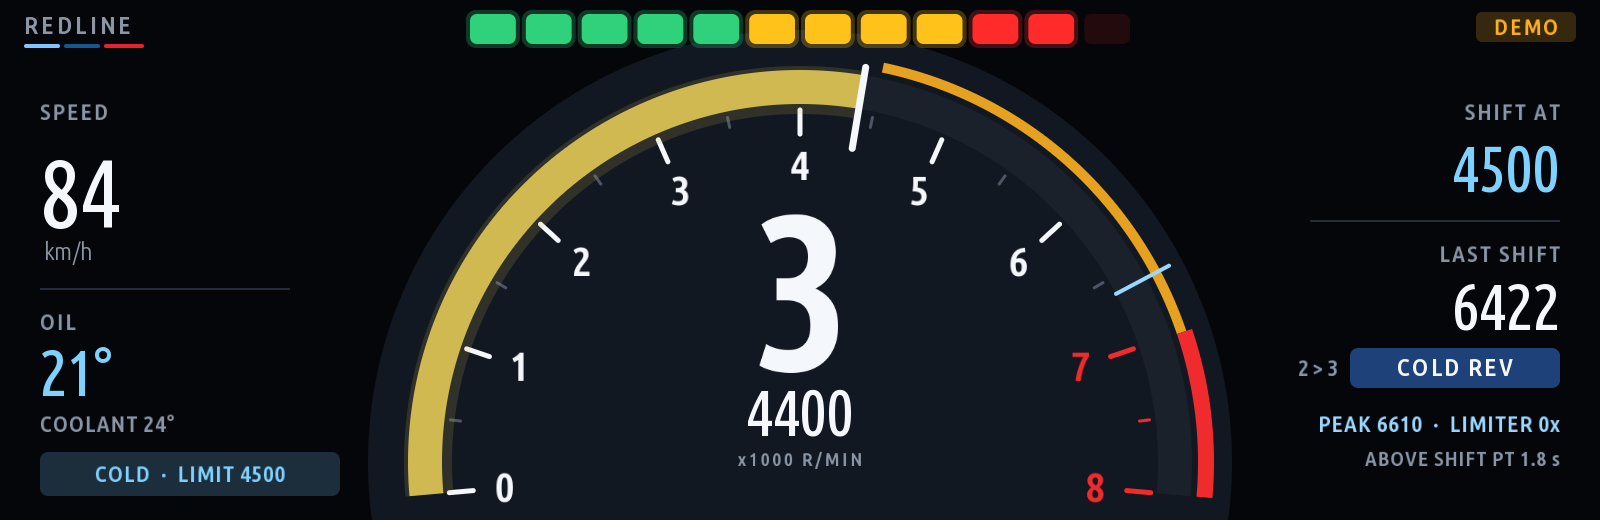
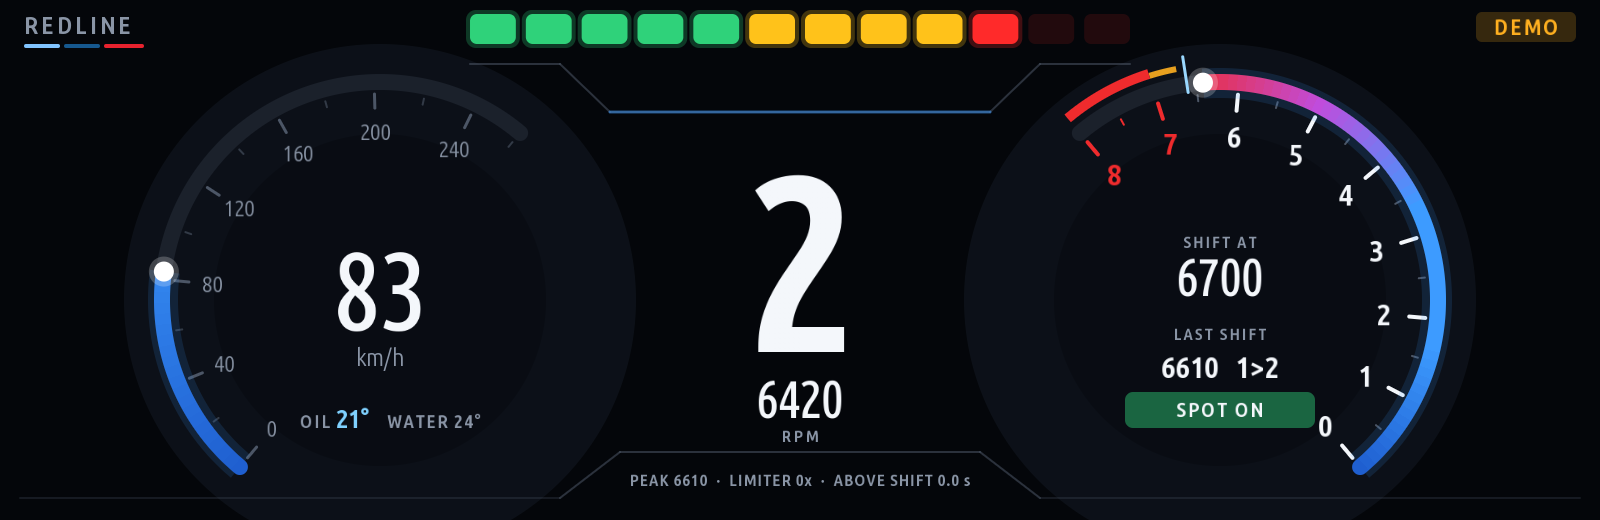
Redline 1.1: G20 Live Cockpit style cluster
- Two mirrored open gauges: speed (left, fills clockwise from the lower
  left) and revs (right, anticlockwise from the lower right) with glow
  and a bright tip; rev bar runs the theme's hot ramp to red at the
  shift point, solid red above it; shift zone + redline on the rim
- Huge gear in the centre with rpm under it, angular frame lines,
  shift-at / last shift + verdict inside the rev gauge, oil / water and
  the cold limit inside the speed gauge; shift lights, flash, scoring and
  the shift log page unchanged
- canvas.arc ramp now works anticlockwise (rampTo < rampFrom)
- README: Redline description + screenshot

Claude-Session: https://claude.ai/code/session_01G89YVjbLtqWwckvonFV4nZ

diff --git a/apps/redline/main.js b/apps/redline/main.js
@@ -1,6 +1,8 @@
 'use strict';
 /**
- * Redline - full-screen rev tach drawn like an M cluster.
+ * Redline - full-screen rev tach drawn like the G20 Live Cockpit in Sport mode:
+ * two mirrored open gauges (speed left, revs right) filling from the outer bottom
+ * corners towards the centre, a huge gear between them, angular frame lines.
  *
  *   - shift-light bar that fills over the last 2000 rpm and strobes at the shift point
  *   - huge gear number (from the gearbox, or learned from rpm/speed ratios)
@@ -16,8 +18,11 @@ const G = require('./kit/gauges');
 const Car = require('./kit/car');
 
 const W = 1600, H = 520;
-const CX = 800, CY = 462, R = 392, THICK = 34;      // tach geometry
-const A0 = -95, A1 = 95;                            // sweep, degrees from 12 o'clock
+// two mirrored pods (G20 style): speed left, revs right; angles in degrees from 12 o'clock
+const PY = 300, PR = 226, THICK = 16;
+const SPD = { cx: 380, a0: -140, a1: 40 };          // fills clockwise from the lower left
+const TAC = { cx: 1220, a0: 140, a1: -40 };         // fills anticlockwise from the lower right
+const SPEED_MAX = { kmh: 260, mph: 160 };
 const MPH = 1.609344;
 const GREEN = '#2fd27a', YELLOW = '#ffc21a', BLUE = '#2a7dff';
 const N_LEDS = 12, LED_RANGE = 2000;
@@ -85,32 +90,59 @@ mgu.run({
             if (G.isNum(g)) lastGear = g;
         }, () => { recent.length = 0; lastGear = null; lastT = 0; });
 
-        /* ---------- static tach background (cached) ---------- */
-        const ang = (rpm) => A0 + G.clamp(rpm / maxRpm(), 0, 1) * (A1 - A0);
-        const P = (a, r) => [CX + Math.sin(a * Math.PI / 180) * r, CY - Math.cos(a * Math.PI / 180) * r];
+        /* ---------- static cluster background (cached) ---------- */
+        const P = (cx, a, r) => [cx + Math.sin(a * Math.PI / 180) * r, PY - Math.cos(a * Math.PI / 180) * r];
+        const tacA = (rpm) => TAC.a0 + G.clamp(rpm / maxRpm(), 0, 1) * (TAC.a1 - TAC.a0);
+        const spdMax = () => SPEED_MAX[mph() ? 'mph' : 'kmh'];
+        const spdA = (v) => SPD.a0 + G.clamp(v / spdMax(), 0, 1) * (SPD.a1 - SPD.a0);
         let bg = null, bgKey = '';
         function background(t, sp) {
-            const key = [settings.get('theme'), maxRpm(), redline(), sp.rpm].join('|');
+            const key = [settings.get('theme'), maxRpm(), redline(), sp.rpm, settings.get('speedUnit')].join('|');
             if (bg && key === bgKey) return bg;
             const cv = new Canvas(W, H).clear(t.bg);
-            // soft vignette behind the dial
-            cv.arc(CX, CY, 0, R + 40, 0, 360, withAlpha(t.panelTop, 0.9));
-            cv.arc(CX, CY, R - THICK, R, A0, A1, t.track);
-            // redline + shift zones on the outer rim
-            cv.arc(CX, CY, R + 6, R + 16, ang(sp.rpm), ang(redline()), withAlpha(t.warn, 0.9));
-            cv.arc(CX, CY, R + 6, R + 22, ang(redline()), A1, t.crit);
-            // ticks every 500 rpm, numbers every 1000
+            // soft glow behind each pod
+            [SPD.cx, TAC.cx].forEach((cx) => {
+                cv.arc(cx, PY, 0, PR + 30, 0, 360, withAlpha(t.panelTop, 0.55));
+                cv.arc(cx, PY, 0, PR - 60, 0, 360, withAlpha(t.bg, 0.35));
+            });
+            // angular frame lines (the G20's hexagonal outline): over the top and under the centre
+            const fl = withAlpha(t.tick, 0.55), fa = withAlpha(t.accent, 0.5);
+            cv.polyline([[SPD.cx + 90, 64], [560, 64], [610, 112], [990, 112], [1040, 64], [TAC.cx - 90, 64]], 2, fl);
+            cv.polyline([[610, 112], [990, 112]], 3, fa);
+            cv.polyline([[560, 498], [620, 452], [980, 452], [1040, 498]], 2, fl);
+            cv.polyline([[20, 498], [560, 498]], 1.5, withAlpha(t.tick, 0.35));
+            cv.polyline([[1040, 498], [1580, 498]], 1.5, withAlpha(t.tick, 0.35));
+            // tracks
+            cv.arc(SPD.cx, PY, PR - THICK, PR, SPD.a0, SPD.a1, t.track, { round: true });
+            cv.arc(TAC.cx, PY, PR - THICK, PR, TAC.a1, TAC.a0, t.track, { round: true });
+            // speed ticks: every 20 (10 mph), numbers every 40 (20 mph)
+            const sStep = mph() ? 10 : 20;
+            for (let v = 0; v <= spdMax(); v += sStep) {
+                const a = spdA(v), major = v % (sStep * 2) === 0;
+                const [xa, ya] = P(SPD.cx, a, PR - THICK - (major ? 18 : 10)), [xb, yb] = P(SPD.cx, a, PR - THICK - 4);
+                cv.line(xa, ya, xb, yb, major ? 3 : 2, major ? t.tick : withAlpha(t.tick, 0.6));
+                if (major) { const [lx, ly] = P(SPD.cx, a, PR - THICK - 42); cv.text(String(v), lx, ly + 8, 22, t.dim, { align: 'center', font: 'label' }); }
+            }
+            // rev ticks every 500, numbers every 1000; shift zone + redline on the rim
+            cv.arc(TAC.cx, PY, PR + 6, PR + 12, tacA(redline()), tacA(sp.rpm), withAlpha(t.warn, 0.9));
+            cv.arc(TAC.cx, PY, PR + 6, PR + 16, TAC.a1, tacA(redline()), t.crit);
             for (let rpm = 0; rpm <= maxRpm(); rpm += 500) {
-                const a = ang(rpm), major = rpm % 1000 === 0, red = rpm >= redline();
-                const [xa, ya] = P(a, R - THICK - (major ? 30 : 16)), [xb, yb] = P(a, R - THICK - 6);
-                cv.line(xa, ya, xb, yb, major ? 5 : 3, red ? t.crit : major ? t.text : t.tick);
-                if (major) {
-                    const [lx, ly] = P(a, R - THICK - 62);
-                    cv.text(String(rpm / 1000), lx, ly + 14, 40, red ? t.crit : t.text, { align: 'center', font: 'bold' });
-                }
+                const a = tacA(rpm), major = rpm % 1000 === 0, red = rpm >= redline();
+                const [xa, ya] = P(TAC.cx, a, PR - THICK - (major ? 20 : 10)), [xb, yb] = P(TAC.cx, a, PR - THICK - 4);
+                cv.line(xa, ya, xb, yb, major ? 4 : 2, red ? t.crit : major ? t.text : t.tick);
+                if (major) { const [lx, ly] = P(TAC.cx, a, PR - THICK - 46); cv.text(String(rpm / 1000), lx, ly + 11, 30, red ? t.crit : t.text, { align: 'center', font: 'bold' }); }
             }
             bg = cv; bgKey = key;
             return cv;
+        }
+
+        /** Gauge fill with a soft glow and a bright tip. */
+        function fill(cv, cx, a0, a, ramp, from, to, col) {
+            cv.arc(cx, PY, PR - THICK - 8, PR + 6, a0, a, withAlpha(col, 0.14));
+            cv.arc(cx, PY, PR - THICK, PR, a0, a, col, ramp ? { round: true, ramp, rampFrom: from, rampTo: to } : { round: true });
+            const [x, y] = P(cx, a, PR - THICK / 2);
+            cv.circle(x, y, THICK / 2 + 7, withAlpha('#ffffff', 0.22));
+            cv.circle(x, y, THICK / 2 + 2, '#ffffff');
         }
 
         /* ---------- drawing ---------- */
@@ -154,62 +186,49 @@ mgu.run({
                 cv.gradientRect(0, 0, W, H, [[0, withAlpha(t.crit, 0.30)], [0.5, withAlpha(t.crit, 0.06)], [1, withAlpha(t.crit, 0.22)]]);
             }
 
-            // live sweep
-            if (G.isNum(rpm)) {
-                const a = ang(rpm);
-                const f = G.clamp((rpm - (sp.rpm - LED_RANGE)) / LED_RANGE, 0, 1);
-                const col = rpm >= redline() - 60 ? t.crit : rpm >= sp.rpm ? '#ff2a2a' : f > 0 ? mix(t.accent, YELLOW, f * 0.8) : t.accent;
-                cv.arc(CX, CY, R - THICK - 10, R + 4, A0, a, withAlpha(col, 0.16));
-                cv.arc(CX, CY, R - THICK, R, A0, a, col);
-                const [xa, ya] = P(a, R - THICK - 40), [xb, yb] = P(a, R + 8);
-                cv.line(xa, ya, xb, yb, 7, t.text);
-            }
-            // peak hold
-            if (peakRpm > 0) {
-                const [xa, ya] = P(ang(peakRpm), R - THICK), [xb, yb] = P(ang(peakRpm), R + 26);
-                cv.line(xa, ya, xb, yb, 4, t.accent2);
+            // ---- speed pod (left)
+            const v = G.isNum(d.speed) ? (mph() ? d.speed / MPH : d.speed) : null;
+            if (G.isNum(v) && v > 0.5) fill(cv, SPD.cx, SPD.a0, spdA(v), t.ramp, SPD.a0, SPD.a1, t.accent);
+            cv.text(G.fmt(v, 0), SPD.cx, PY + 30, 110, G.isNum(v) ? t.text : t.dim, { align: 'center', font: 'num' });
+            cv.text(mph() ? 'mph' : 'km/h', SPD.cx, PY + 66, 24, t.dim, { align: 'center' });
+            const oilCol = !G.isNum(d.oil) ? t.dim : d.oil < 60 ? t.cold : d.oil < settings.get('warmOil') ? YELLOW : d.oil > 130 ? t.crit : t.text;
+            const ow = cv.text('OIL ', SPD.cx - 80, PY + 128, 18, t.dim, { font: 'bold', spacing: 2 });
+            cv.text(G.fmt(d.oil, 0) + (G.isNum(d.oil) ? '°' : ''), SPD.cx - 80 + ow, PY + 128, 26, oilCol, { font: 'bold' });
+            cv.text('WATER ' + G.fmt(d.coolant, 0) + '°', SPD.cx + 100, PY + 128, 18, t.dim, { align: 'right', font: 'bold', spacing: 1.5 });
+            if (sp.cold) {
+                cv.roundRect(SPD.cx - 130, PY + 146, 260, 34, 8, withAlpha(t.cold, 0.2));
+                cv.text('COLD  ·  LIMIT ' + sp.rpm, SPD.cx, PY + 170, 18, t.cold, { align: 'center', font: 'bold', spacing: 1 });
             }
 
-            // gear
+            // ---- rev pod (right): theme colour -> red at the shift point, solid red above it
+            if (G.isNum(rpm) && rpm > 50) {
+                const a = tacA(rpm), over = rpm >= sp.rpm;
+                fill(cv, TAC.cx, TAC.a0, a, over ? null : (t.hotRamp || t.ramp), TAC.a0, tacA(sp.rpm), over ? '#ff2a2a' : t.accent);
+            }
+            if (peakRpm > 0) {
+                const [xa, ya] = P(TAC.cx, tacA(peakRpm), PR - THICK), [xb, yb] = P(TAC.cx, tacA(peakRpm), PR + 20);
+                cv.line(xa, ya, xb, yb, 3, t.accent2);
+            }
+            cv.text('SHIFT AT', TAC.cx, PY - 52, 16, t.dim, { align: 'center', font: 'bold', spacing: 2 });
+            cv.text(String(sp.rpm), TAC.cx, PY - 4, 52, sp.cold ? t.cold : t.text, { align: 'center', font: 'num' });
+            cv.text('LAST SHIFT', TAC.cx, PY + 40, 16, t.dim, { align: 'center', font: 'bold', spacing: 2 });
+            if (lastShift) {
+                const age = now - lastShift.at, vc = VCOL[lastShift.verdict];
+                cv.text(String(lastShift.rpm) + (lastShift.from !== '?' ? '   ' + lastShift.from + '>' + lastShift.to : ''), TAC.cx, PY + 78, 30, t.text, { align: 'center', font: 'bold' });
+                cv.roundRect(TAC.cx - 95, PY + 92, 190, 36, 8, withAlpha(vc, age < 2500 ? 0.45 : 0.18));
+                cv.text(lastShift.verdict, TAC.cx, PY + 117, 20, age < 2500 ? t.text : vc, { align: 'center', font: 'bold', spacing: 2 });
+            } else cv.text('--', TAC.cx, PY + 78, 30, t.dim, { align: 'center', font: 'bold' });
+
+            // ---- centre: gear + rpm
             const g = d.gear;
             const gs = g === -1 ? 'R' : g === 0 ? 'N' : G.isNum(g) ? String(g) : '-';
             const gc = strobe ? (Math.floor(now / 90) % 2 ? t.text : '#ff2a2a') : t.text;
-            cv.text(gs, CX, CY - 92, 220, gc, { align: 'center', font: 'gear' });
-            if (d.gearGuessed && G.isNum(g) && g > 0) cv.text('EST.', CX + 92, CY - 260, 18, t.dim, { font: 'bold', spacing: 1.5 });
-            cv.text(G.isNum(rpm) ? String(Math.round(rpm / 10) * 10) : '----', CX, CY - 26, 64, G.isNum(rpm) ? t.text : t.dim, { align: 'center', font: 'num' });
-            cv.text('x1000 R/MIN', CX, CY + 4, 18, t.dim, { align: 'center', font: 'bold', spacing: 3 });
-
-            // left column: speed + oil
-            const v = G.isNum(d.speed) ? (mph() ? d.speed / MPH : d.speed) : null;
-            cv.text('SPEED', 40, 120, 22, t.dim, { font: 'bold', spacing: 2 });
-            cv.text(G.fmt(v, 0), 40, 228, 96, G.isNum(v) ? t.text : t.dim, { font: 'num' });
-            cv.text(mph() ? 'mph' : 'km/h', 44, 260, 24, t.dim);
-            cv.fillRect(40, 288, 250, 2, t.panelEdge);
-            cv.text('OIL', 40, 330, 22, t.dim, { font: 'bold', spacing: 2 });
-            const oilCol = !G.isNum(d.oil) ? t.dim : d.oil < 60 ? t.cold : d.oil < settings.get('warmOil') ? YELLOW : d.oil > 130 ? t.crit : t.text;
-            cv.text(G.fmt(d.oil, 0) + (G.isNum(d.oil) ? '°' : ''), 40, 396, 64, oilCol, { font: 'num' });
-            cv.text('COOLANT ' + G.fmt(d.coolant, 0) + '°', 40, 432, 22, t.dim, { font: 'bold', spacing: 1 });
-            if (sp.cold) {
-                cv.roundRect(40, 452, 300, 44, 8, withAlpha(t.cold, 0.2));
-                cv.text('COLD  ·  LIMIT ' + sp.rpm, 190, 482, 22, t.cold, { align: 'center', font: 'bold', spacing: 1 });
-            }
-
-            // right column: shift info
-            const rx = W - 40;
-            cv.text('SHIFT AT', rx, 120, 22, t.dim, { align: 'right', font: 'bold', spacing: 2 });
-            cv.text(String(sp.rpm), rx, 192, 64, sp.cold ? t.cold : t.text, { align: 'right', font: 'num' });
-            cv.fillRect(W - 290, 220, 250, 2, t.panelEdge);
-            cv.text('LAST SHIFT', rx, 262, 22, t.dim, { align: 'right', font: 'bold', spacing: 2 });
-            if (lastShift) {
-                const age = now - lastShift.at;
-                cv.text(String(lastShift.rpm), rx, 330, 64, t.text, { align: 'right', font: 'num' });
-                const vc = VCOL[lastShift.verdict];
-                cv.roundRect(W - 250, 348, 210, 40, 8, withAlpha(vc, age < 2500 ? 0.45 : 0.18));
-                cv.text(lastShift.verdict, W - 145, 376, 24, age < 2500 ? t.text : vc, { align: 'center', font: 'bold', spacing: 2 });
-                if (lastShift.from !== '?') cv.text(lastShift.from + ' > ' + lastShift.to, W - 262, 376, 22, t.dim, { align: 'right', font: 'bold' });
-            } else cv.text('--', rx, 330, 64, t.dim, { align: 'right', font: 'num' });
-            cv.text('PEAK ' + (peakRpm ? Math.round(peakRpm) : '--') + '  ·  LIMITER ' + limiterHits + 'x', rx, 432, 22, t.accent2, { align: 'right', font: 'bold', spacing: 1 });
-            cv.text('ABOVE SHIFT PT ' + (overShiftMs / 1000).toFixed(1) + ' s', rx, 466, 20, t.dim, { align: 'right', font: 'bold', spacing: 1 });
+            cv.text(gs, 800, 352, 250, gc, { align: 'center', font: 'gear' });
+            if (d.gearGuessed && G.isNum(g) && g > 0) cv.text('EST.', 800, 134, 16, t.dim, { align: 'center', font: 'bold', spacing: 1.5 });
+            cv.text(G.isNum(rpm) ? String(Math.round(rpm / 10) * 10) : '----', 800, 418, 52, G.isNum(rpm) ? (rpm >= sp.rpm ? '#ff4a4a' : t.text) : t.dim, { align: 'center', font: 'num' });
+            cv.text('RPM', 800, 442, 16, t.dim, { align: 'center', font: 'bold', spacing: 3 });
+            cv.text('PEAK ' + (peakRpm ? Math.round(peakRpm) : '--') + '  ·  LIMITER ' + limiterHits + 'x  ·  ABOVE SHIFT ' + (overShiftMs / 1000).toFixed(1) + ' s',
+                800, 486, 16, t.dim, { align: 'center', font: 'bold', spacing: 1 });
         }
 
         function drawLog(cv, t) {

diff --git a/kit/runtime/canvas.js b/kit/runtime/canvas.js
@@ -195,7 +195,8 @@ class Canvas {
      * Annulus sector (ring segment) from angle a0 to a1 (degrees, clockwise
      * from 12 o'clock), radii r0..r1. opts.round = round end caps.
      * opts.ramp = [c0, c1, ...] colours the ring by angle instead of c, spread
-     * over opts.rampFrom..opts.rampTo (default a0..a1), so a value arc keeps the
+     * over opts.rampFrom..opts.rampTo (default a0..a1; rampTo < rampFrom runs it
+     * anticlockwise), so a value arc keeps the
      * colour of its position on the scale.
      */
     arc(cx, cy, r0, r1, a0, a1, c, opts) {
@@ -203,7 +204,8 @@ class Canvas {
         let lut = null, rf = 0, rs = 1;
         if (opts && opts.ramp) {
             rf = opts.rampFrom == null ? Math.min(a0, a1) : opts.rampFrom;
-            rs = Math.max(1e-6, (opts.rampTo == null ? Math.max(a0, a1) : opts.rampTo) - rf);
+            rs = (opts.rampTo == null ? Math.max(a0, a1) : opts.rampTo) - rf;      // signed span
+            if (Math.abs(rs) < 1e-6) rs = 1e-6;
             lut = [];
             for (let i = 0; i <= 64; i++) lut.push(ramp(opts.ramp, i / 64));
         }
@@ -241,9 +243,12 @@ class Canvas {
                 }
                 if (cov > 0) {
                     if (lut) {
-                        let deg = Math.atan2(dx, -dy) / RAD;
-                        if (deg < rf - 180) deg += 360;
-                        c = lut[Math.round(clamp01((deg - rf) / rs) * 64)];
+                        // angle travelled from rampFrom in the ramp's direction (0..360)
+                        const span = Math.abs(rs);
+                        let da = (Math.atan2(dx, -dy) / RAD - rf) * (rs < 0 ? -1 : 1);
+                        da = ((da % 360) + 360) % 360;
+                        if (da > span + (360 - span) / 2) da -= 360;            // just before the start
+                        c = lut[Math.round(clamp01(da / span) * 64)];
                     }
                     this._blend(px, py, c, cov);
                 }

diff --git a/README.md b/README.md
@@ -12,7 +12,7 @@ Everything can be removed again with one command.
 |---|---|
 | ![eDrive](docs/screens/edrive.png)<br>**eDrive**: real electric range, battery health, last charge, 12 V | ![eDrive charge log](docs/screens/edrive_log.png)<br>**eDrive**: charge log with cost and totals |
 | ![M Vitals engine](docs/screens/m_vitals_engine.png)<br>**M Vitals**: rpm, boost, speed + gear, power, torque | ![M Vitals intake and fuel](docs/screens/m_vitals_fuel.png)<br>**M Vitals**: intake air, HPFP / LPFP fuel pressure |
-| ![M Vitals chassis](docs/screens/m_vitals_chassis.png)<br>**M Vitals**: g-force, tyre pressures + temperatures, xDrive | ![Redline](docs/screens/redline.png)<br>**Redline**: shift lights, gear, shift scoring |
+| ![M Vitals chassis](docs/screens/m_vitals_chassis.png)<br>**M Vitals**: g-force, tyre pressures + temperatures, xDrive | ![Redline](docs/screens/redline.png)<br>**Redline**: G20-style cluster, shift lights, shift scoring |
 | ![G-Force](docs/screens/gforce.png)<br>**G-Force**: friction circle, peaks, records | ![Virtual Dyno](docs/screens/dyno.png)<br>**Virtual Dyno**: power and torque curve |
 | ![Brake Test](docs/screens/brake_test.png)<br>**Brake Test**: 100-0 distance, deceleration, fade | ![Drag Timer](docs/screens/draggy.png)<br>**Drag Timer**: splits, ¼ mile, speed trace |
 | ![Warm-Up](docs/screens/warmup.png)<br>**Warm-Up**: time to working temperature, safe rev limit, turbo cool-down | ![Fault Scanner](docs/screens/dtc_scanner.png)<br>**Fault Scanner**: fault codes of every control unit |
@@ -51,7 +51,7 @@ the unit and kept across reboots.
 
 | App | What it does |
 |---|---|
-| **Redline** | Full-screen rev tach with a 12-LED shift-light bar that strobes at your shift point (optionally flashing the whole screen red). Huge gear indicator, read from the gearbox or learned from rpm/speed. Every upshift is scored (EARLY / SPOT ON / LATE / LIMITER), with a shift log and accuracy stats. A cold-engine guard lowers the shift point until the oil is warm. |
+| **Redline** | A G20-style cluster: speed and rev gauges side by side that fill from the outer corners (the rev bar runs blue to red towards your shift point), a huge gear in the middle and a 12-LED shift-light bar that strobes at your shift point (optionally flashing the whole screen red). Gear read from the gearbox or learned from rpm/speed. Every upshift is scored (EARLY / SPOT ON / LATE / LIMITER), with a shift log and accuracy stats. A cold-engine guard lowers the shift point until the oil is warm. |
 | **Virtual Dyno** | Do a full-throttle pull in one gear and get a power and torque curve, calculated from acceleration, car weight, air drag and rolling resistance. Settings for weight, body shape, drivetrain loss, hp/PS/kW and Nm/lb-ft. Runs are saved; pin one as a baseline to see ± on every new pull. Optional overlay of the engine computer's own torque reading. |
 | **Brake Test** | 100-0 and 200-0 km/h (or 60-0 and 100-0 mph): distance, time, peak deceleration and a deceleration trace. The start crossing is interpolated between samples, so results don't depend on the sample rate. A brake-fade chart compares your last stops and warns when distances grow. Bests plus full history. |
 | **Drag Timer** | 0-50, 0-100, 100-200, 0-200 km/h and ¼ mile (or mph equivalents), with interpolated splits, optional one-foot rollout, a live speed trace and saved best times. |
